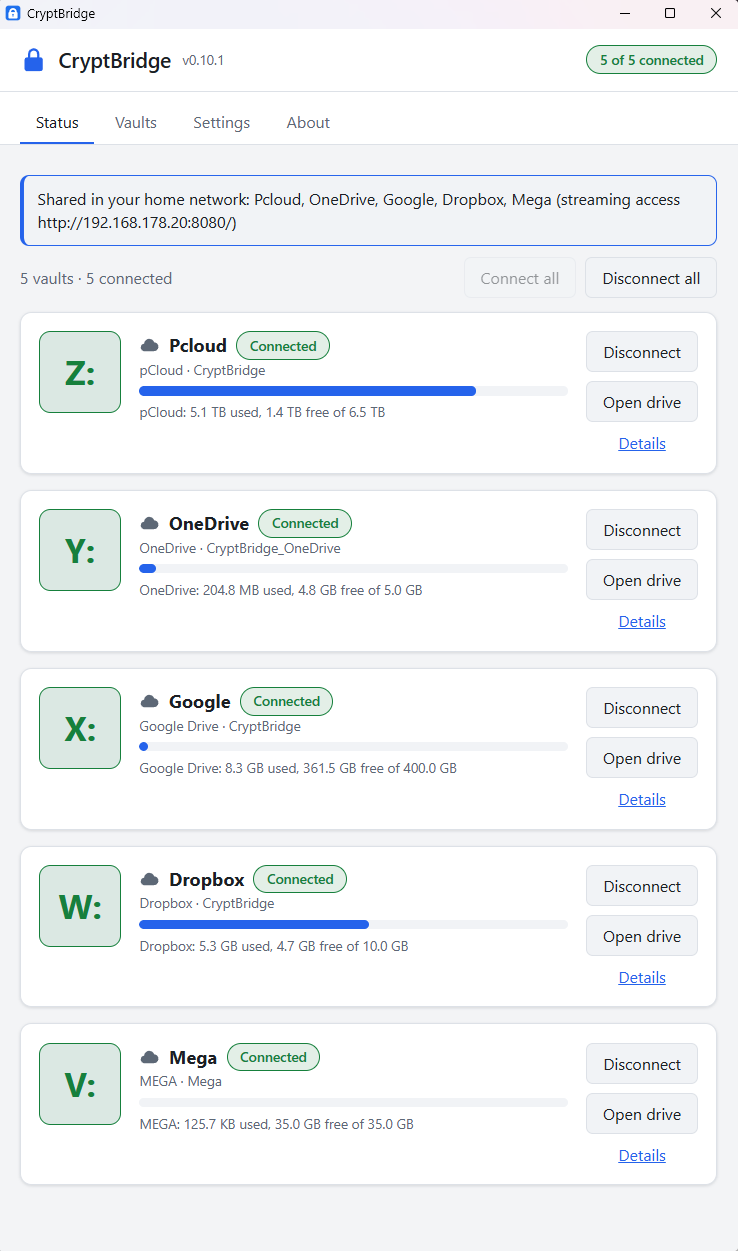
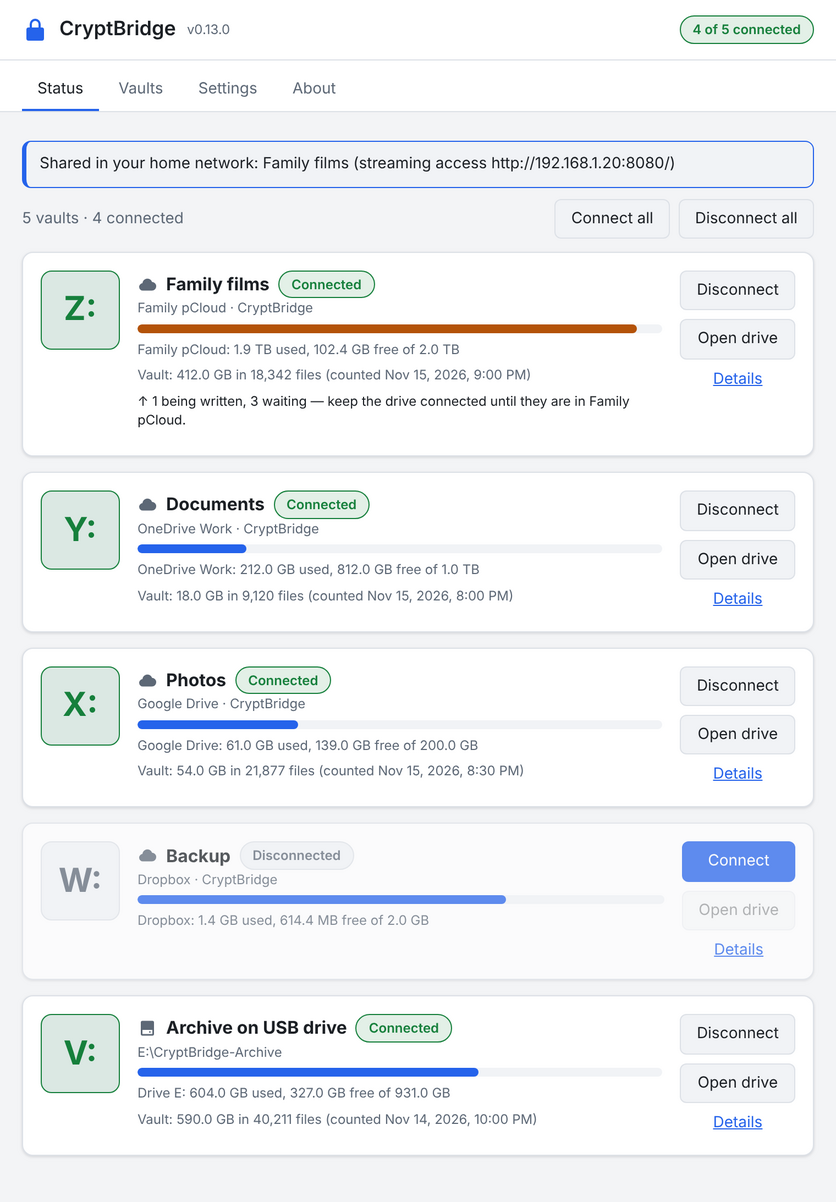
Docs: Windows-Screenshot neu (Programm 0.13.0, vorher 0.10.1)
Claude-Session: https://claude.ai/code/session_01GvUq7HNy5SymDJurgCYvVm

diff --git a/README.md b/README.md
@@ -61,9 +61,9 @@ drive such as `Z:`. Copy files in, open them, play films, delete them, just as o
 ## See it in action
 
 <p align="center">
-  <img src="docs/images/windows-status.png" alt="CryptBridge's Status tab: five vaults in pCloud, OneDrive, Google Drive, Dropbox and MEGA, each connected as its own drive from Z: to V:, with the used and free space of every cloud" width="420"><br>
-  <sub><b>The Windows program:</b> five vaults in five clouds open at the same time, each one a drive of its own,
-  with the free space of every cloud and the share for your home network.</sub>
+  <img src="docs/images/windows-status.png" alt="CryptBridge's Status tab (version 0.13.0): five vaults, four in the clouds pCloud, OneDrive, Google Drive and Dropbox and one on a USB drive, each as its own drive letter from Z: to V:, with the used and free space, the vault size and the files still being uploaded" width="420"><br>
+  <sub><b>The Windows program:</b> several vaults open at the same time, each one a drive of its own, in the cloud or on a USB drive,
+  with the free space of every cloud, the upload status and the share for your home network. The window itself (its real page) with made-up sample vaults.</sub>
 </p>
 
 <p align="center">
